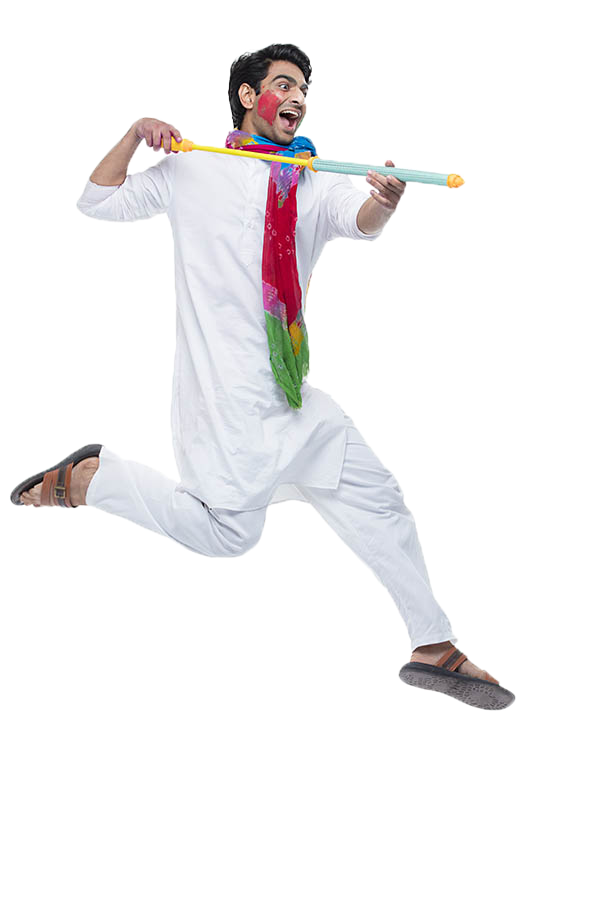
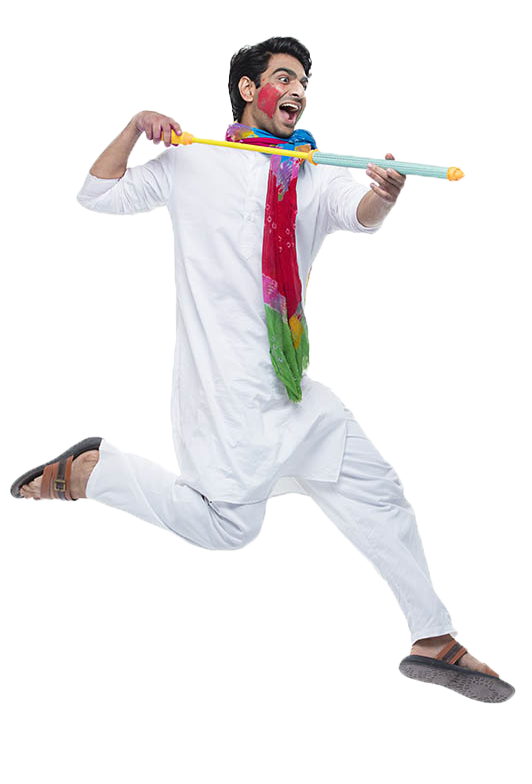
added people + croped

Changed region(s): [[0.0, 0.0306, 0.9624, 0.9184], [0.3609, 0.4592, 0.391, 0.4898]]

diff --git a/index.html b/index.html
@@ -10,6 +10,7 @@
     <script src="https://unpkg.com/aframe-event-set-component@^4.0.0/dist/aframe-event-set-component.min.js"></script>
     <script src="https://unpkg.com/aframe-spritesheet-component/dist/aframe-spritesheet-component.min.js"></script>
     <script src="https://unpkg.com/aframe-animation-component/dist/aframe-animation-component.min.js"></script>
+    <!-- <script src="https://unpkg.com/aframe-gradient-sky@1.0.4/dist/gradientsky.min.js"></script> -->
     <script src="js/holi.js"></script> 
   </head>
   <body>
@@ -39,11 +40,12 @@
       <img id="explosion-1" src="textures/sprites/explosion1.png">
       <img id="explosion-2" src="textures/sprites/holi.png">
       <img id="explosion-3" src="textures/sprites/explosion.gif">
-      <!-- EXPLOSION -->
 
+      <!-- TEXTURES -->
       <img id="floor" src="textures/patterns/color.jpg">
       <img id="background" src="textures/patterns/bg.jpg">
 
+      <!-- TEXT -->
       <a-mixin id="text"
       text="
         align: center; 
@@ -64,7 +66,14 @@
 
       <!-- <a-entity id="camera" look-controls cursor="rayOrigin: mouse"></a-entity> -->
 
+
+      <!-- INTRODUCTION SCENE -->
+
       <a-entity id="intro" visible="true">
+<!-- 
+              <a-entity id="sky" geometry="primitive: sphere; radius: 5000"
+                material="shader: gradient; topColor: 235 235 245; bottomColor: 185 185 210" scale="-1 1 1"></a-entity> -->
+                
         <a-sky id="bg" color="#FF00C1" material="src: #background;"></a-sky>
         <a-light 
           type="ambient" 
@@ -116,32 +125,46 @@
         ></a-text>
       </a-entity>
 
+      
+      <!-- HOLI SCENE -->
       <a-entity id="main" visible="false">
         <a-sky id="bg" color="#F0FFFF" material="src: #background;"></a-sky>
         <a-plane position="0 0 -4" rotation="-90 0 0" width="100" height="100" material="src: #floor; repeat: 20 20"></a-plane>
         
-        <a-entity id="aunty" geometry="primitive: plane; height: 1.5; width: 2" position="-2 0.7 -3" 
-          material="src: #person-1; transparent: true; opacity: 2"
+        <a-entity id="aunty" geometry="primitive: plane; height: 1.5" position="-2 0.7 -2.8" 
+          material="src: #person-1; transparent: true; opacity: 2; alpha-test: 0.5"
           event-set__enter="_event: mouseenter; _target: #bg; color: #22B2E7"></a-entity>
 
-        <a-entity id="boy" rotation="5 40 0" geometry="primitive: plane; height: 1.5; width: 2" position="-3 0.7 -1"
-          material="src: #person-2; transparent: true; opacity: 2"
+        <a-entity id="boy" rotation="5 40 0" geometry="primitive: plane; height: 1.5" position="-3 0.7 -1"
+          material="src: #person-2; transparent: true; opacity: 2; alpha-test: 0.5"
           event-set__enter="_event: mouseenter; _target: #bg; color: #F51367"></a-entity>
 
-        <a-entity id="couple1" rotation="0 -180 0" geometry="primitive: plane; height: 1.5; width: 2" position="3 0.7 2"
-          material="src: #person-3; transparent: true; opacity: 2"
+        <a-entity id="couple1" rotation="0 -100 0" geometry="primitive: plane; height: 1.5" position="3 0.7 2"
+          material="src: #person-3; transparent: true; opacity: 2; alpha-test: 0.5"
           event-set__enter="_event: mouseenter; _target: #bg; color: #FCB32C"></a-entity>
 
-        <a-entity id="couple-jumping" rotation="0 -180 0" geometry="primitive: plane; height: 1.5; width: 2" position="0 0.7 2"
-          material="src: #person-8; transparent: true; opacity: 2"
+        <a-entity id="couple-jumping" rotation="0 -180 0" geometry="primitive: plane; height: 1.5; width:2" position="0 0.7 2"
+          material="src: #person-8; transparent: true; opacity: 2; alpha-test: 0.5"
           event-set__enter="_event: mouseenter; _target: #bg; color: #F96825"></a-entity>
 
-        <a-entity id="couple2" rotation="0 -180 0" geometry="primitive: plane; height: 1.5; width: 2" position="-4 0.7 2"
-          material="src: #person-9; transparent: true; opacity: 2"
+        <a-entity id="couple2" rotation="0 -180 0" geometry="primitive: plane; height: 1.9" position="-4 1 2"
+          material="src: #person-9; transparent: true; opacity: 2; alpha-test: 0.5"
           event-set__enter="_event: mouseenter; _target: #bg; color: #9FE23B"></a-entity>
 
-        <a-entity id="excited" geometry="primitive: plane; height: 1.5; width: 2" position="2 0.7 -2"
-          material="src: #person-4; transparent: true; opacity: 2"
+        <a-entity id="family" rotation="0 -190 0" geometry="primitive: plane; height: 1.5" position="-3 0.7 4"
+          material="src: #person-5; transparent: true; opacity: 2; alpha-test: 0.5"
+          event-set__enter="_event: mouseenter; _target: #bg; color: #F96825"></a-entity>
+        
+        <a-entity id="guy1" rotation="0 -180 0" geometry="primitive: plane; height: 1.5" position="2 1 4"
+          material="src: #person-6; transparent: true; opacity: 2; alpha-test: 0.5"
+          event-set__enter="_event: mouseenter; _target: #bg; color: #9FE23B"></a-entity>
+
+        <a-entity id="girl1" geometry="primitive: plane; height: 1.2" position="1 0.7 -4.5"
+          material="src: #person-14; transparent: true; opacity: 2; alpha-test: 0.5"
+          event-set__enter="_event: mouseenter; _target: #bg; color: #22B2E7"></a-entity>
+
+        <a-entity id="excited" geometry="primitive: plane; height: 1.5" position="2 0.7 -2"
+          material="src: #person-4; transparent: true; opacity: 2; alpha-test: 0.5"
           event-set__enter="_event: mouseenter; _target: #explosion; visible: true"
           event-set__leave="_event: mouseleave; _target: #explosion; visible: false">
         <a-light type="ambient" color="#fff"></a-light>
